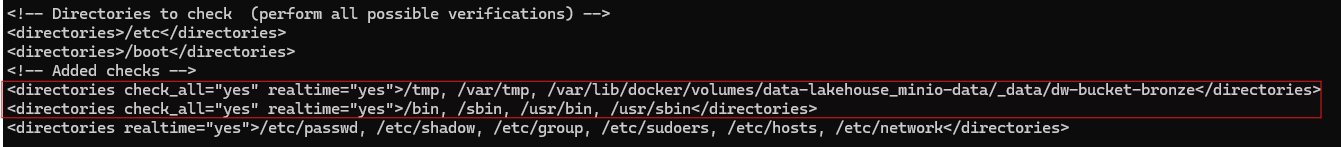
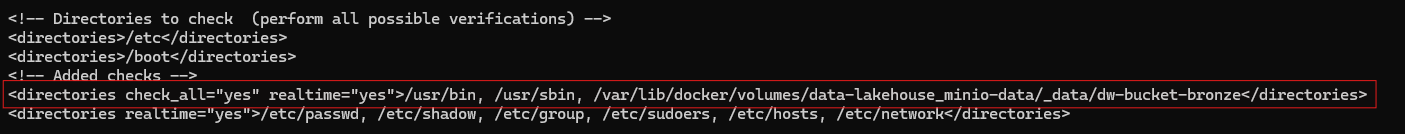
Modified config settings and enhanced guide

Changed region(s): [[0.0, 0.0299, 1.0, 0.9254]]

diff --git a/docs/cybersecurity/Blue Team/Wazuh Integrations/VirusTotal-Integration.md b/docs/cybersecurity/Blue Team/Wazuh Integrations/VirusTotal-Integration.md
@@ -5,17 +5,17 @@ sidebar_position: 1
 # Integrating VirusTotal into Wazuh
 
 :::info
-**Document Creation:** 27 Mar, 2025. **Last Edited:** 27 Mar, 2025. **Authors:** Robin Spoerl.
+**Document Creation:** 28 Mar, 2025. **Last Edited:** 28 Mar, 2025. **Authors:** Robin Spoerl.
 :::
 
 ## 1. Introduction 
-This document provides a brief overview of VirusTotal and the rationale behind integrating it with Wazuh on Redback Operations' VM. Additionally, this document will provide step-by-step instructions to show how future users can understand, maintain and improve the integration. 
+This document provides a brief overview of VirusTotal and the rationale behind integrating it with Wazuh on Redback Operations' VM. Additionally, this document will provide step-by-step instructions to show how future users can understand, maintain and improve the integration. It will also describe limitations and future work directions. 
 
 ## 2. Background
 
 Redback Operations currently protects its company VM with a Wazuh SIEM and installed agent. The agent is installed directly on the VM and gathers information about the operating environment. The information is then forwarded to the Wazuh SIEM, which provides an overview of all events tracked by the agent. Currently, apart from the basic rootcheck module, the agent is not configured to check for malicious files, which poses a security risk. 
 
-To this end, it is proposed that VirusTotal be integrated within Wazuh's FIM (file integrity module). The module can track changes made to key directories in real time, such as written files. If configured, the FIM module can extract the hashes of these written files and forward them to the online VirusTotal service. VirusTotal can lookup these hashes and note if they are malicious or benign. This lookup information can also be forwarded to the Wazuh SIEM. Thus, this integration allows Wazuh to check if any malicious files were written to an agent's system in real time.
+To this end, it is proposed that VirusTotal be integrated within Wazuh's FIM (file integrity module). The module can track changes made to key directories in real time, such as written files. If configured, the FIM module can extract the hashes of these written files and forward them to the online VirusTotal service. VirusTotal can look up these hashes and note if they are malicious or benign. This look up information can also be forwarded to the Wazuh SIEM. Thus, this integration allows Wazuh to check if any malicious files were written to an agent's system in real time.
 
 ## 3. Configuration Steps
 
@@ -55,33 +55,34 @@ Save your changes and restart the manager container.
 On the Wazuh dashboard, an option for VirusTotal will show up now. 
 ![Wazuh dashboard status](./img-virustotal/dashboard_status.png)
 
-### 3.3. Change the FIM settings
+### 3.3. Change the agent's FIM settings
 
 Now that the manager has been set up with VirusTotal, you need to modify the FIM settings to perform real-time scanning on a specified number of directories. By default, FIM performs a full system scan with several default system directories every 12 hours, but this is not ideal. To modify this, you need to access the **ossec.conf** file of the **agent**, NOT the **manager**. The agent file is by default stored under **/var/ossec/etc** in the agent's system. You need elevated privileges to access this file.
 ![Configuration directory of the agent](./img-virustotal/agent_etc_directory.png)
 
-Once there, you can choose any directories to monitor. Since malicious actors commonly use the **/tmp** and **/var/tmp** directories to store temporary files, it is valuable to monitor them. Also, since the Data Warehouse's file upload tool uses the **dw-bucket-bronze** directory, it is useful to monitor these directories in case a malicious file gets uploaded. While Deakin seems to have an IPS installed that detects malicious uploads on its network, it is valuable regardless to monitor this directory as an extra layer of security. 
+Once there, you can choose any directories to monitor. However, due to API limitations, these must be directories that are not very active. For example, since the Data Warehouse's file upload tool uses the **dw-bucket-bronze** directory, it is useful to monitor this directory in case a malicious file gets uploaded. While Deakin seems to have an IPS installed that detects malicious uploads on its network, it is valuable regardless to monitor this directory as an extra layer of security. 
 
-Finally, the **/bin**, **/sbin**, **/usr/bin** and **/usr/sbin** directories store important system and user binaries. It would be valuable to monitor these.  
+Finally, the  **/usr/bin** and **/usr/sbin** directories store important system and user binaries. It would be valuable to monitor these.  
 
 Add the following code block to the **syscheck** section:
 ```
-<directories check_all="yes" realtime="yes">/tmp, /var/tmp, /var/lib/docker/volumes/data-lakehouse_minio-data/_data/dw-bucket-bronze</directories>
-<directories check_all="yes" realtime="yes">/bin, /sbin, /usr/bin, /usr/sbin</directories>
+<directories check_all="yes" realtime="yes">/usr/bin, /usr/sbin, /var/lib/docker/volumes/data-lakehouse_minio-data/_data/dw-bucket-bronze</directories>
 ```
-**check_all** ensures that all important information is extracted from any files written to these directories, including their hashes. **realtime** ensures that these directories are always monitored. 
+**check_all** ensures that all important information is extracted from any files written to these directories, including their hashes. **realtime** ensures that these directories are always monitored. Note that you can modify these directories as needed.
 
 See the example screenshot.
 ![Agent configuration file](./img-virustotal/agent_config.png)
 
-Note in the previous screenshot the third line containing critical system files like **/etc/passwd** and **/etc/shadow**. While not entirely related to VirusTotal integration, these files and directories were added to the real-time checking module, away from the default 12-hour checks. The rationale behind this was that these files and directories contain critical information that, when modified, could be indicative of an attack. 
+Note in the previous screenshot the second line containing critical system files like **/etc/passwd** and **/etc/shadow**. While not entirely related to VirusTotal integration, these files and directories were added to the real-time checking module, away from the default 12-hour checks. The rationale behind this was that these files and directories contain critical information that, when modified, could be indicative of an attack.
 
 Save your changes and restart the wazuh-agent process.
 ![Restarting the Wazuh agent](./img-virustotal/restarting_agent.png)
 
 ### 3.4. Test VirusTotal integration
 
-You can write files to monitored directories and see corresponding alerts appear in both the FIM and VirusTotal modules. As an example, "tst.txt" files were written to the  **/tmp** and **/var/tmp** directories. The hashes of the files were extracted by FIM and sent to VirusTotal, which had no results.  
+You can write files to monitored directories and see corresponding alerts appear in both the FIM and VirusTotal modules. As an example, assume that you have modified the previous **sysconfig** block to monitor the non-critical **/tmp** and **/var/tmp** directories. While VirusTotal integration would not work well on these directories on an ongoing basis, they are good starting points nonetheless to try out the FIM without damaging anything. The actual company implementation does NOT monitor these directories.
+
+To demonstrate the monitoring, "tst.txt" files were written to the non-critical **/tmp** and **/var/tmp** directories. The hashes of the files were extracted by FIM and sent to VirusTotal, which had no results.  
 ![FIM](./img-virustotal/FIM.png)
 ![VirusTotal](./img-virustotal/virustotal.png)
 
@@ -93,9 +94,11 @@ Note the corresponding warning on the VirusTotal tab, with a label ("1") noting 
 
 ### 3.5. Limitations
 
-The tool was implemented using the Public API, which is limited to 500 requests per day and 4 requests per minute. Thus, system-wide monitoring is not an option with VirusTotal. Only key directories can be monitored. Consequently, future work will focus on broader signature-based tools, such as YARA and ClamAV, to complement this hash-based approach. 
+The tool was implemented using the Public API, which is limited to 500 requests per day and 4 requests per minute. Thus, VirusTotal cannot be used for system-wide monitoring. Likewise, the Public API is severely limited to directories which do have a lot of recurring file modifications. While this is useful for, say, the internal file upload tool, it also means that popular malware directories like **/tmp** cannot be effectively monitored. Consequently, future work will need to focus on tools that do not rely on APIs, like YARA and ClamAV, to complement this hash-based approach. 
 
-In addition, the public API is forbidden to be used in a commercial setting. Hence, if Redback Operations were to move to a commercial setting in the future, they would need to investigate the Premium API or other options. 
+In addition, the tool uses hashes to detect uploaded malware samples. Yet, these hashes are limited to known malware samples. If an attacker were to apply an obfuscation or modification technique to an existing sample, which they have not applied elsewhere, VirusTotal would likely not detect the sample. Thus, while this integration enhances a defence-in-depth strategy, it should not be relied upon as the sole security measure. 
+
+Finally, the Public API is forbidden to be used in a commercial setting. Hence, if Redback Operations were to move to a commercial setting in the future, they would need to investigate the Premium API or other options. 
 
 ## 4. References
 - [VirusTotal Integration Wazuh Guide](https://documentation.wazuh.com/current/user-manual/capabilities/malware-detection/virus-total-integration.html)
